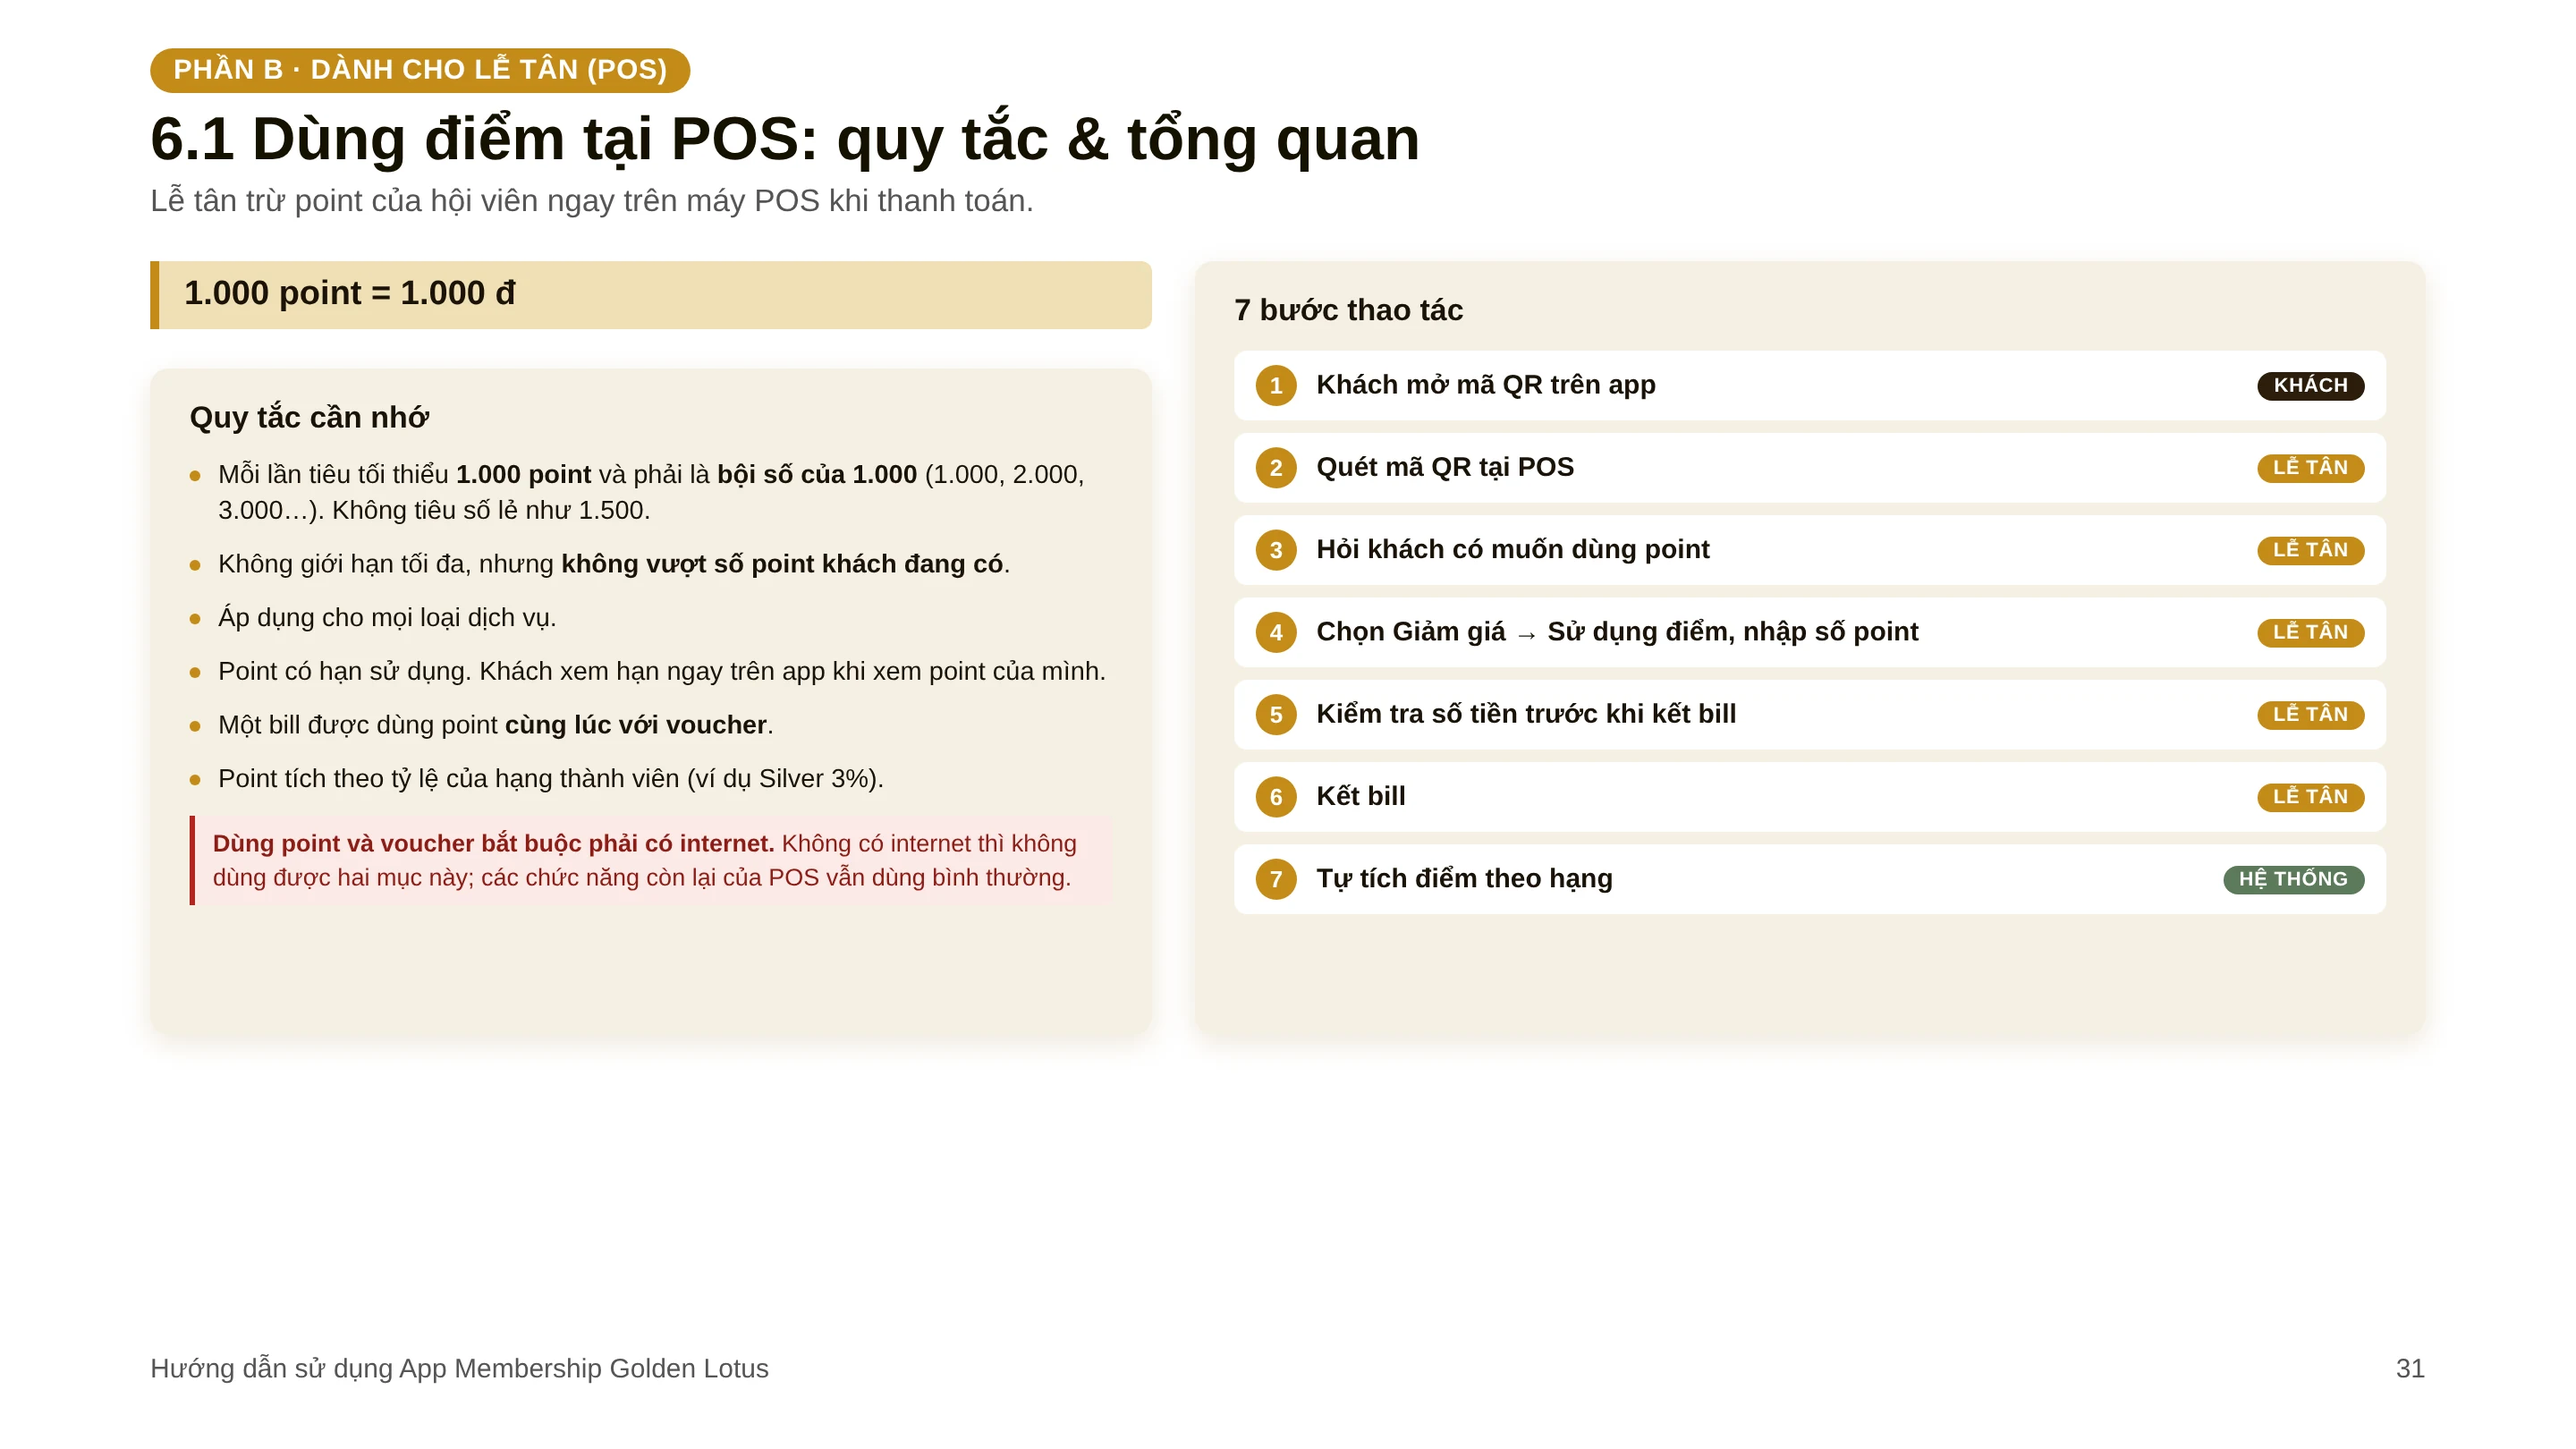
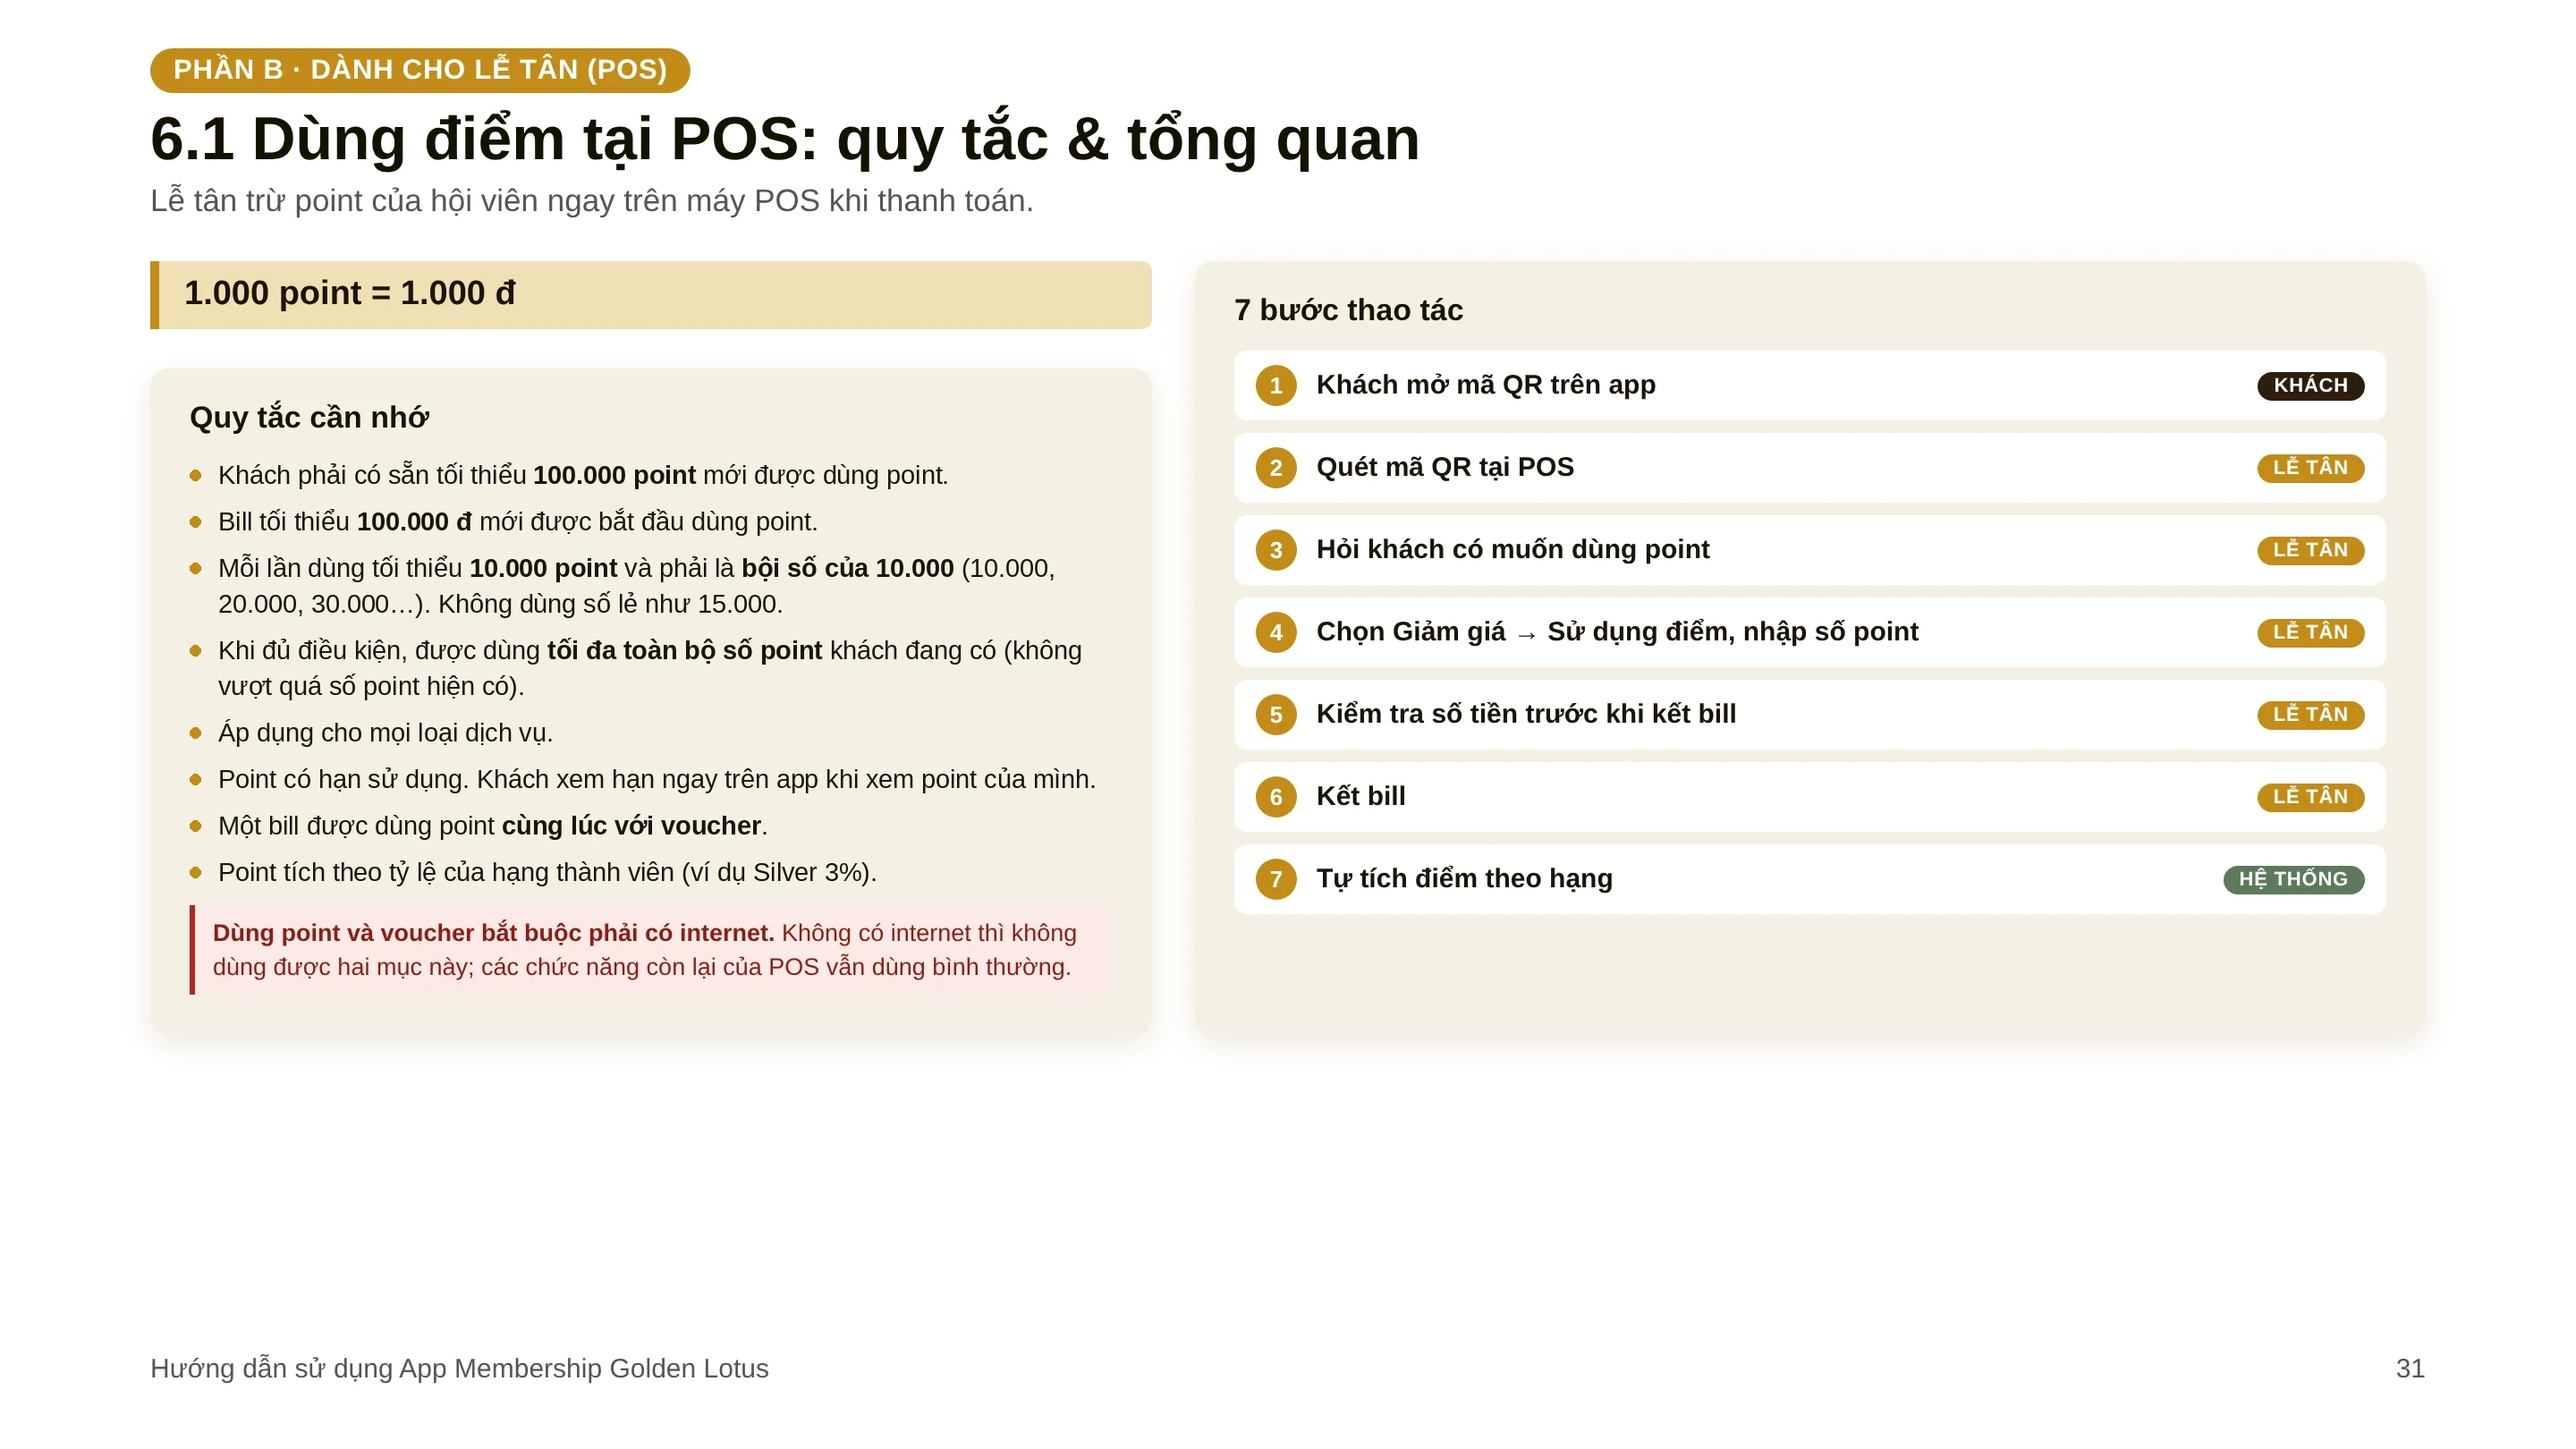
Quy tắc dùng point: tối thiểu 10.000 (bội số 10.000), cần có sẵn 100.000 point, bill tối thiểu 100.000đ (trang 31, 33, 35 + hướng dẫn POS)
Claude-Session: https://claude.ai/code/session_01RoCCcE5aUAib2frrCe3aCP

Changed region(s): [[0.0625, 0.3086, 0.4375, 0.679]]

diff --git a/public/huong-dan-pos/index.html b/public/huong-dan-pos/index.html
@@ -38,7 +38,7 @@ h3{margin:8px 0;font-size:20px}.step p{margin:6px 0}
 <h2 id="diem">PHẦN 1 · TIÊU ĐIỂM VÀ TÍCH ĐIỂM</h2>
 <p class="box">1.000 point = 1.000 đ</p>
 <h4>Quy tắc cần nhớ</h4>
-<ul class="rules"><li>Mỗi lần tiêu tối thiểu 1.000 point và phải là bội số của 1.000 (1.000, 2.000, 3.000…). Không tiêu số lẻ như 1.500.</li><li>Không giới hạn tối đa, nhưng không vượt số point khách đang có.</li><li>Áp dụng cho mọi loại dịch vụ.</li><li>Point có hạn sử dụng. Khách xem hạn ngay trên app khi xem point của mình.</li><li>Một bill được dùng point cùng lúc với voucher.</li><li>Point tích theo tỷ lệ của hạng thành viên (ví dụ Silver 3%).</li></ul>
+<ul class="rules"><li>Khách phải có sẵn tối thiểu <b>100.000 point</b> mới được dùng point.</li><li>Bill tối thiểu <b>100.000 đ</b> mới được bắt đầu dùng point.</li><li>Mỗi lần dùng tối thiểu 10.000 point và phải là bội số của 10.000 (10.000, 20.000, 30.000…). Không dùng số lẻ như 15.000.</li><li>Khi đủ điều kiện, được dùng tối đa toàn bộ số point khách đang có (không vượt quá số point hiện có).</li><li>Áp dụng cho mọi loại dịch vụ.</li><li>Point có hạn sử dụng. Khách xem hạn ngay trên app khi xem point của mình.</li><li>Một bill được dùng point cùng lúc với voucher.</li><li>Point tích theo tỷ lệ của hạng thành viên (ví dụ Silver 3%).</li></ul>
 <h4>7 bước thao tác</h4>
 <ol class="flow"><li><b>1</b>Khách mở mã QR trên app<em>KHÁCH</em></li><li><b>2</b>Quét mã QR tại POS<em>LỄ TÂN</em></li><li><b>3</b>Hỏi khách có muốn dùng point<em>LỄ TÂN</em></li><li><b>4</b>Nhập số point cần dùng<em>LỄ TÂN</em></li><li><b>5</b>Kiểm tra số tiền trước khi kết bill<em>LỄ TÂN</em></li><li><b>6</b>Kết bill<em>LỄ TÂN</em></li><li><b>7</b>Tự tích điểm theo hạng<em>HỆ THỐNG</em></li></ol>
 <article class="step"><figure><a href="p-04.jpg" target="_blank" rel="noopener"><img src="p-04.jpg" alt="Bước 1: Khách mở mã QR trên app" loading="lazy"></a></figure>
@@ -48,7 +48,7 @@ h3{margin:8px 0;font-size:20px}.step p{margin:6px 0}
 <article class="step"><figure><a href="p-06.jpg" target="_blank" rel="noopener"><img src="p-06.jpg" alt="Bước 3: Hỏi khách có muốn dùng point" loading="lazy"></a></figure>
 <div class="txt"><span class="who who-l">LỄ TÂN</span><h3>Bước 3 · Hỏi khách có muốn dùng point</h3><p>Hỏi khách có muốn dùng point cho bill này không.</p><p class="note">Nếu khách không dùng point: bỏ qua bước 4, chuyển sang bước 5.</p></div></article>
 <article class="step"><figure><a href="p-07.jpg" target="_blank" rel="noopener"><img src="p-07.jpg" alt="Bước 4: Nhập số point cần dùng" loading="lazy"></a></figure>
-<div class="txt"><span class="who who-l">LỄ TÂN</span><h3>Bước 4 · Nhập số point cần dùng</h3><p>Nhập số point khách muốn dùng (khung đỏ trong ảnh).</p><p>Mỗi lần tối thiểu 1.000 point và là bội số của 1.000 (1.000, 2.000, 3.000…). 1.000 point = 1.000 đ.</p><p class="note">POS không cho nhập vượt số point khách đang có.</p><p class="note">Có thể dùng point cùng lúc với voucher.</p></div></article>
+<div class="txt"><span class="who who-l">LỄ TÂN</span><h3>Bước 4 · Nhập số point cần dùng</h3><p>Nhập số point khách muốn dùng (khung đỏ trong ảnh).</p><p>Tối thiểu 10.000 point, theo bội số 10.000 (10.000, 20.000…). 1.000 point = 1.000 đ.</p><p class="note">Chỉ dùng point khi khách có từ 100.000 point và bill từ 100.000 đ.</p><p class="note">POS không cho nhập vượt số point khách đang có.</p><p class="note">Có thể dùng point cùng lúc với voucher.</p></div></article>
 <article class="step"><figure><a href="p-08.jpg" target="_blank" rel="noopener"><img src="p-08.jpg" alt="Bước 5: Kiểm tra số tiền trước khi kết bill" loading="lazy"></a></figure>
 <div class="txt"><span class="who who-l">LỄ TÂN</span><h3>Bước 5 · Kiểm tra số tiền trước khi kết bill</h3><p>Nhìn khung đỏ ở góc dưới màn hình POS: kiểm tra số tiền được trừ và số tiền khách còn phải trả.</p></div></article>
 <article class="step"><figure><a href="p-09.jpg" target="_blank" rel="noopener"><img src="p-09.jpg" alt="Bước 6: Kết bill" loading="lazy"></a></figure>
@@ -56,7 +56,7 @@ h3{margin:8px 0;font-size:20px}.step p{margin:6px 0}
 <article class="step"><figure><a href="p-10.jpg" target="_blank" rel="noopener"><img src="p-10.jpg" alt="Bước 7: Hệ thống tự tích điểm theo hạng" loading="lazy"></a></figure>
 <div class="txt"><span class="who who-h">HỆ THỐNG</span><h3>Bước 7 · Hệ thống tự tích điểm theo hạng</h3><p>Sau khi kết bill, hệ thống tự cộng point cho khách theo tỷ lệ của hạng thành viên, tính trên số tiền bill. Lễ tân không cần thao tác thêm.</p><p>Ví dụ: khách hạng Silver (tích 3%) thanh toán bill 200.000 đ được cộng 6.000 point (200.000 × 3%).</p><p class="note">Point tích và point tiêu của từng bill xem ở màn Giao dịch Membership, cột Point tích (+) và Point tiêu (-).</p></div></article>
 <h4>Checklist trước khi kết bill</h4>
-<ul class="check"><li>Đúng mã QR của khách</li><li>Số point hiển thị trên POS đúng với khách</li><li>Khách đã đồng ý dùng point</li><li>Số point nhập là bội số của 1.000 (2.000, 3.000…) và không vượt số point khách có</li><li>Số tiền sau khi trừ point đúng</li></ul>
+<ul class="check"><li>Đúng mã QR của khách</li><li>Số point hiển thị trên POS đúng với khách</li><li>Khách có từ 100.000 point và bill từ 100.000 đ</li><li>Khách đã đồng ý dùng point</li><li>Số point nhập tối thiểu 10.000, là bội số của 10.000 (10.000, 20.000…) và không vượt số point khách có</li><li>Số tiền sau khi trừ point đúng</li></ul>
 <p class="rule">Nguyên tắc nhớ nhanh: Đúng khách – Khách đồng ý – Đúng số point trước khi kết bill.</p>
 
 <h2 id="voucher">PHẦN 2 · DÙNG VÀ HỦY VOUCHER</h2>
